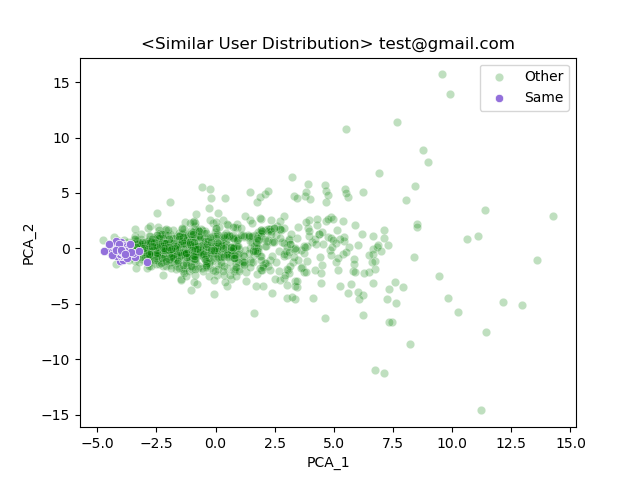
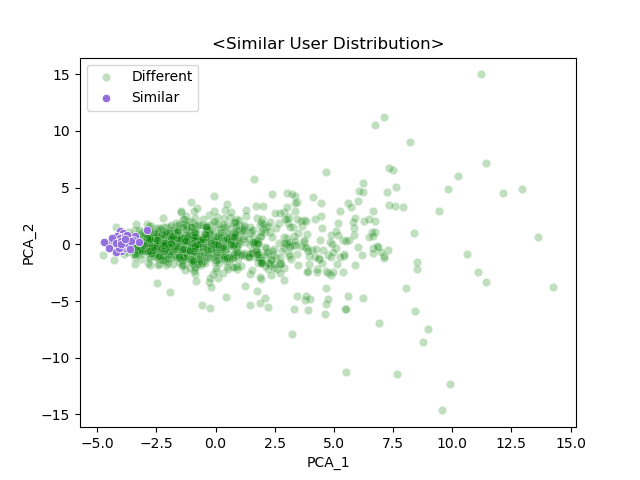
Make Faster

diff --git a/sps-machine-learning/visualization.py b/sps-machine-learning/visualization.py
@@ -19,14 +19,14 @@ class visualization():
         pca=PCA(n_components=2)
         data_pca=pd.DataFrame(pca.fit_transform(data))
         
-        data_pca['grouped']='Other'
-        data_pca.at[similar,'grouped']='Same'
+        data_pca['grouped']='Different'
+        data_pca.at[similar,'grouped']='Similar'
         data_pca.columns=['x1','x2','grouped']
-        same=data_pca[data_pca['grouped']=='Same']
+        same=data_pca[data_pca['grouped']=='Similar']
 
-        sns.scatterplot(x='x1',y='x2',data=data_pca,alpha=0.25,color='green',label='Other')
-        sns.scatterplot(x='x1',y='x2',data=same,markers='x',color='mediumpurple',label='Same')
-        plt.title('<Similar User Distribution> {user_id}'.format(user_id=self.user_id))
+        sns.scatterplot(x='x1',y='x2',data=data_pca,alpha=0.25,color='green',label='Different')
+        sns.scatterplot(x='x1',y='x2',data=same,markers='x',color='mediumpurple',label='Similar')
+        plt.title('<Similar User Distribution>')
         plt.legend()
         plt.xlabel('PCA_1')
         plt.ylabel('PCA_2')

diff --git a/sps-machine-learning/user_cluster.py b/sps-machine-learning/user_cluster.py
@@ -7,7 +7,7 @@ Created on Fri Dec 11 15:26:36 2020
 
 import pandas as pd
 from clustering import *
-from visualization import *
+#from visualization import *
 from functions import *
 from database import *
 import numpy as np
@@ -33,10 +33,11 @@ user_id=sys.argv[1]
 cluster.make_knn(total_label,user_id) # 군집
 print('모델 생성')
 
-
+'''
 visual=visualization(user_id)
 visual.show(cluster.data ,cluster.similar)
 print('{user} 그래프 저장'.format(user=user_id))
+'''
 
 total_label=total_label.drop([user_id]).reset_index()
 

diff --git a/sps-machine-learning/clustering.py b/sps-machine-learning/clustering.py
@@ -25,7 +25,7 @@ class clustering():
         pca=PCA(n_components=0.95)
         pca.fit(x_train)
         x_train_pca=pca.transform(x_train)
-        knn=NearestNeighbors(n_neighbors=50).fit(x_train_pca)
+        knn=NearestNeighbors(n_neighbors=50,n_jobs=-1).fit(x_train_pca)
         self.data=x_train_pca
         
         x_test=scaler.transform(data.loc[user_id].values.reshape(1,-1))
